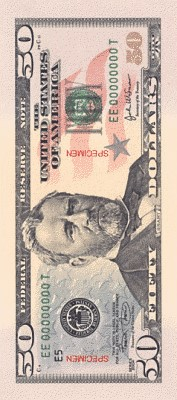
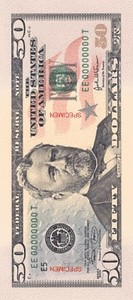
Swapped out fund money images:

diff --git a/frontend/src/App.css b/frontend/src/App.css
@@ -90,8 +90,10 @@
   /* float: left; */
   /* width: 16.66%; */
   padding: 5px;
-  width: 30px;
-  height: 30px;
+  width: 30%;
+  height: 30%;
+  /* max-width:100%;
+  height:auto; */
 }
 
 
